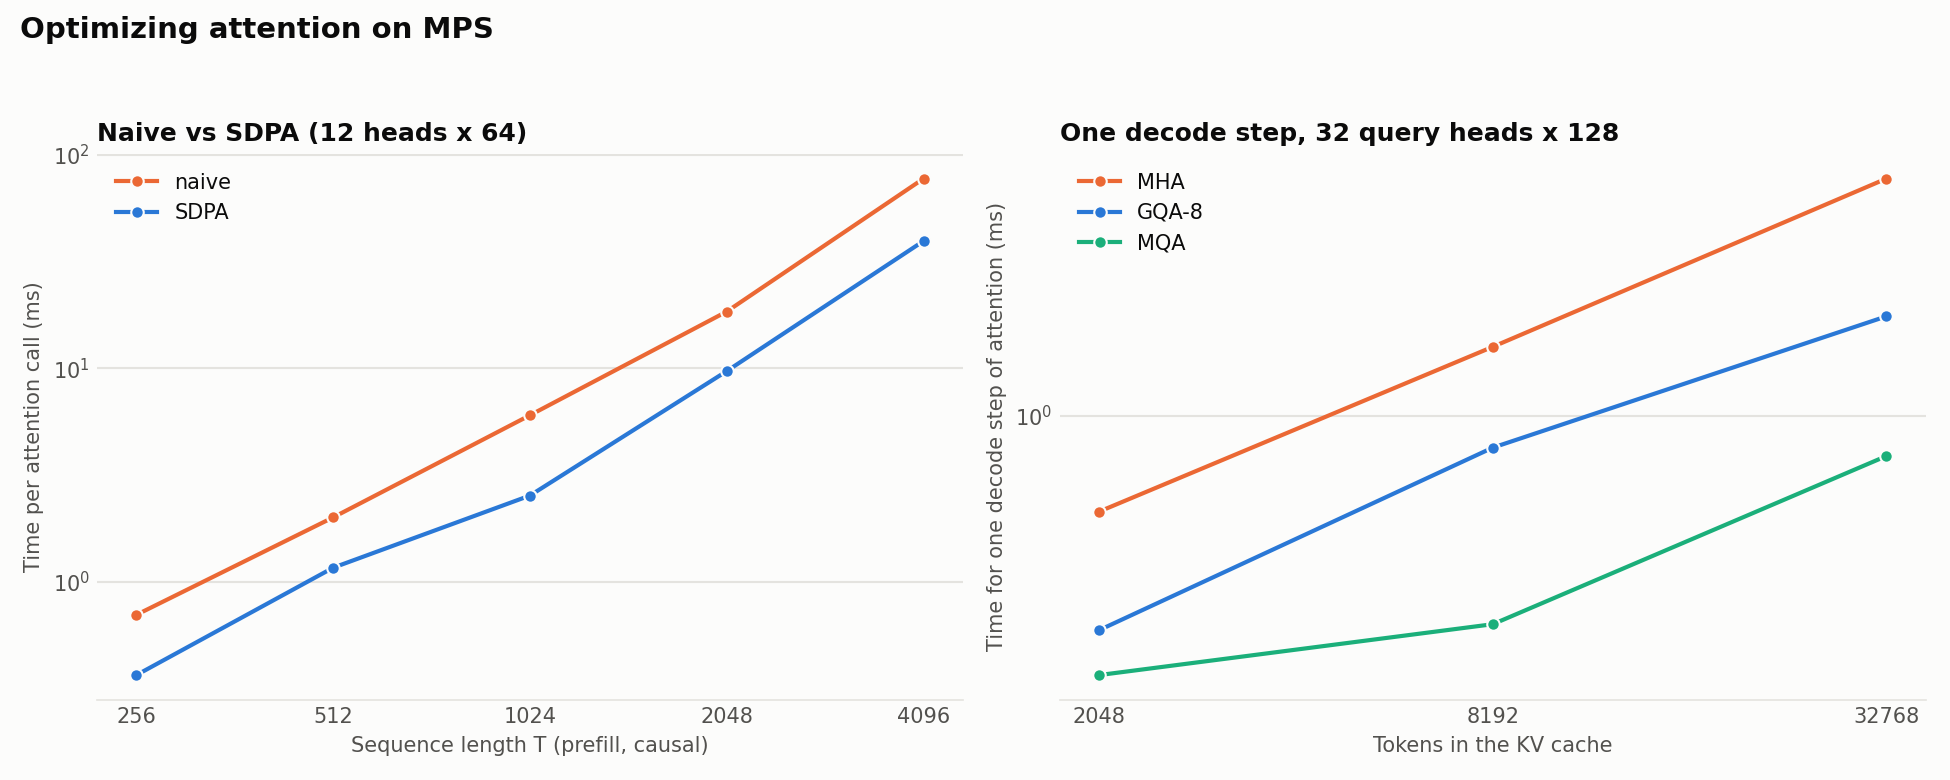
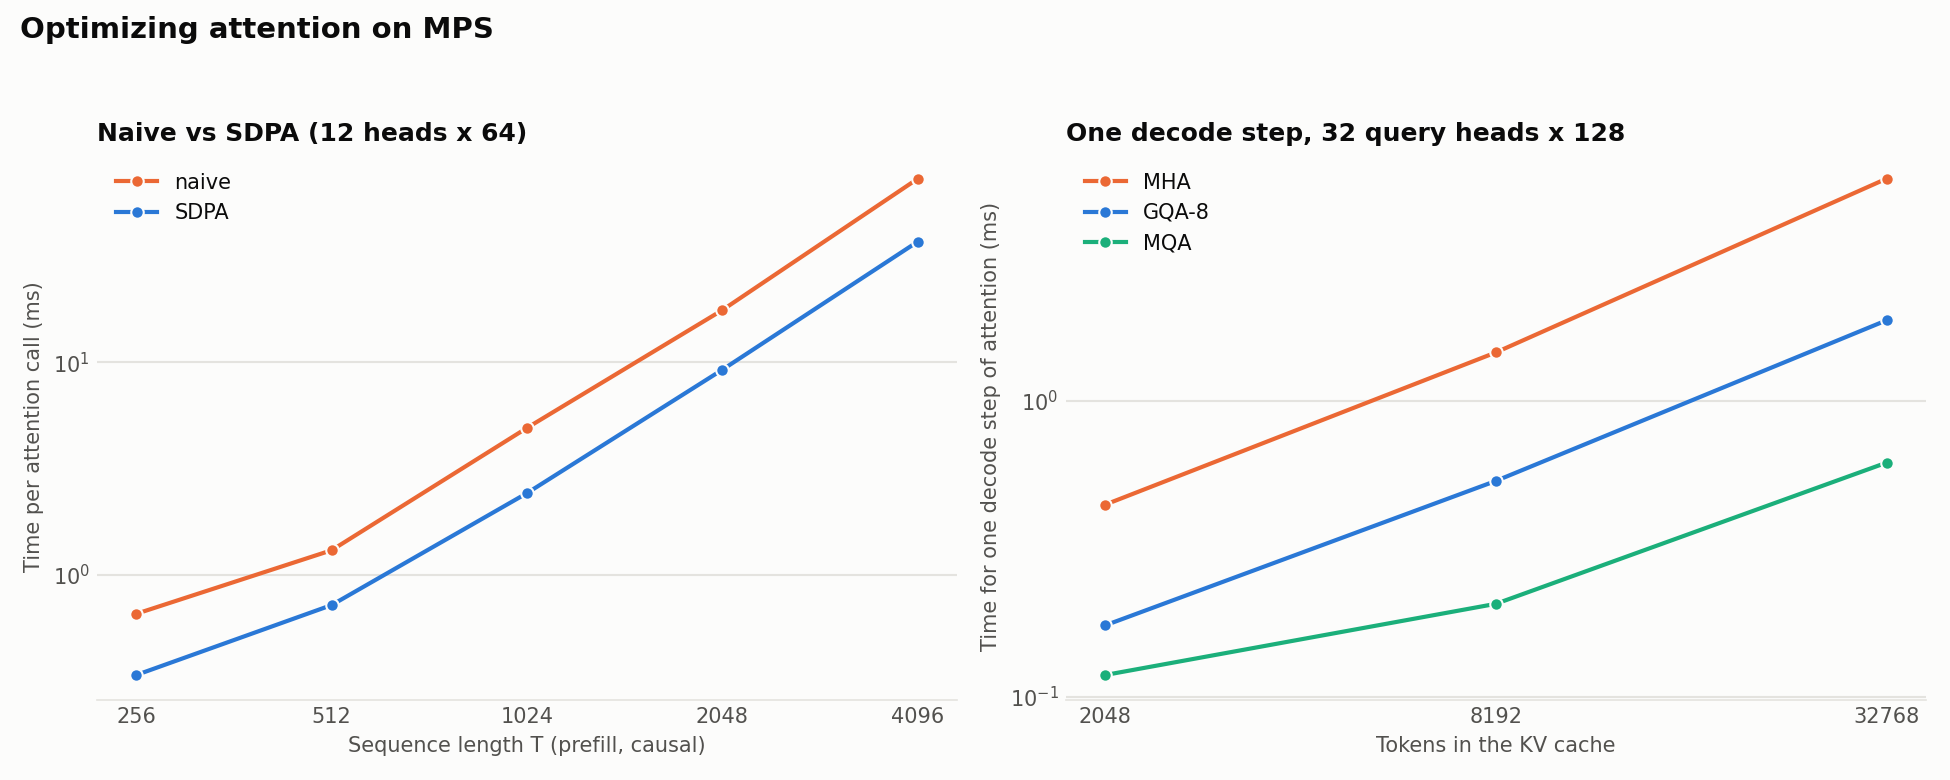
small change

diff --git a/day-14/gqa_sdpa_bench.py b/day-14/gqa_sdpa_bench.py
@@ -158,16 +158,18 @@ if __name__ == "__main__":
     print("Check passed: SDPA == naive attention (fp32 on CPU, and on this device).")
 
     print(f"\nPART 1: naive attention vs SDPA (1 sequence, {HEADS} heads x {HEAD_DIM}, causal)\n")
-    print(f"{'T':>6}{'naive (ms)':>12}{'SDPA (ms)':>11}{'speedup':>9}   naive writes a (T,T) grid per head:")
+    print(f"{'T':>6}{'naive (ms)':>12}{'SDPA (ms)':>11}{'speedup':>9}"
+          f"   naive's scores tensor, all {HEADS} heads (x2 with weights):")
     part1 = []
     for T in SEQ_LENS:
         q, k, v = (torch.randn(1, HEADS, T, HEAD_DIM, device=device, dtype=dtype) for _ in range(3))
         t_naive = timed(lambda: naive_attention(q, k, v), device)
         t_sdpa = timed(lambda: sdpa_attention(q, k, v), device)
-        grid = HEADS * T * T * bpn  # one (T, T) matrix per head; naive keeps scores AND weights
+        per_head = T * T * bpn       # one (T, T) matrix
+        all_heads = HEADS * per_head  # the whole (1, HEADS, T, T) scores tensor for this sequence
         part1.append({"T": T, "naive": t_naive, "SDPA": t_sdpa})
         print(f"{T:>6}{t_naive * 1e3:>12.2f}{t_sdpa * 1e3:>11.2f}{t_naive / t_sdpa:>8.1f}x"
-              f"   {fmt_bytes(grid)} each, x2 (scores + weights)")
+              f"   {fmt_bytes(all_heads)} ({fmt_bytes(per_head)} per head)")
 
     # ---- Part 2 checks: our GQA step is correct ----
     S, B = 64, 2
